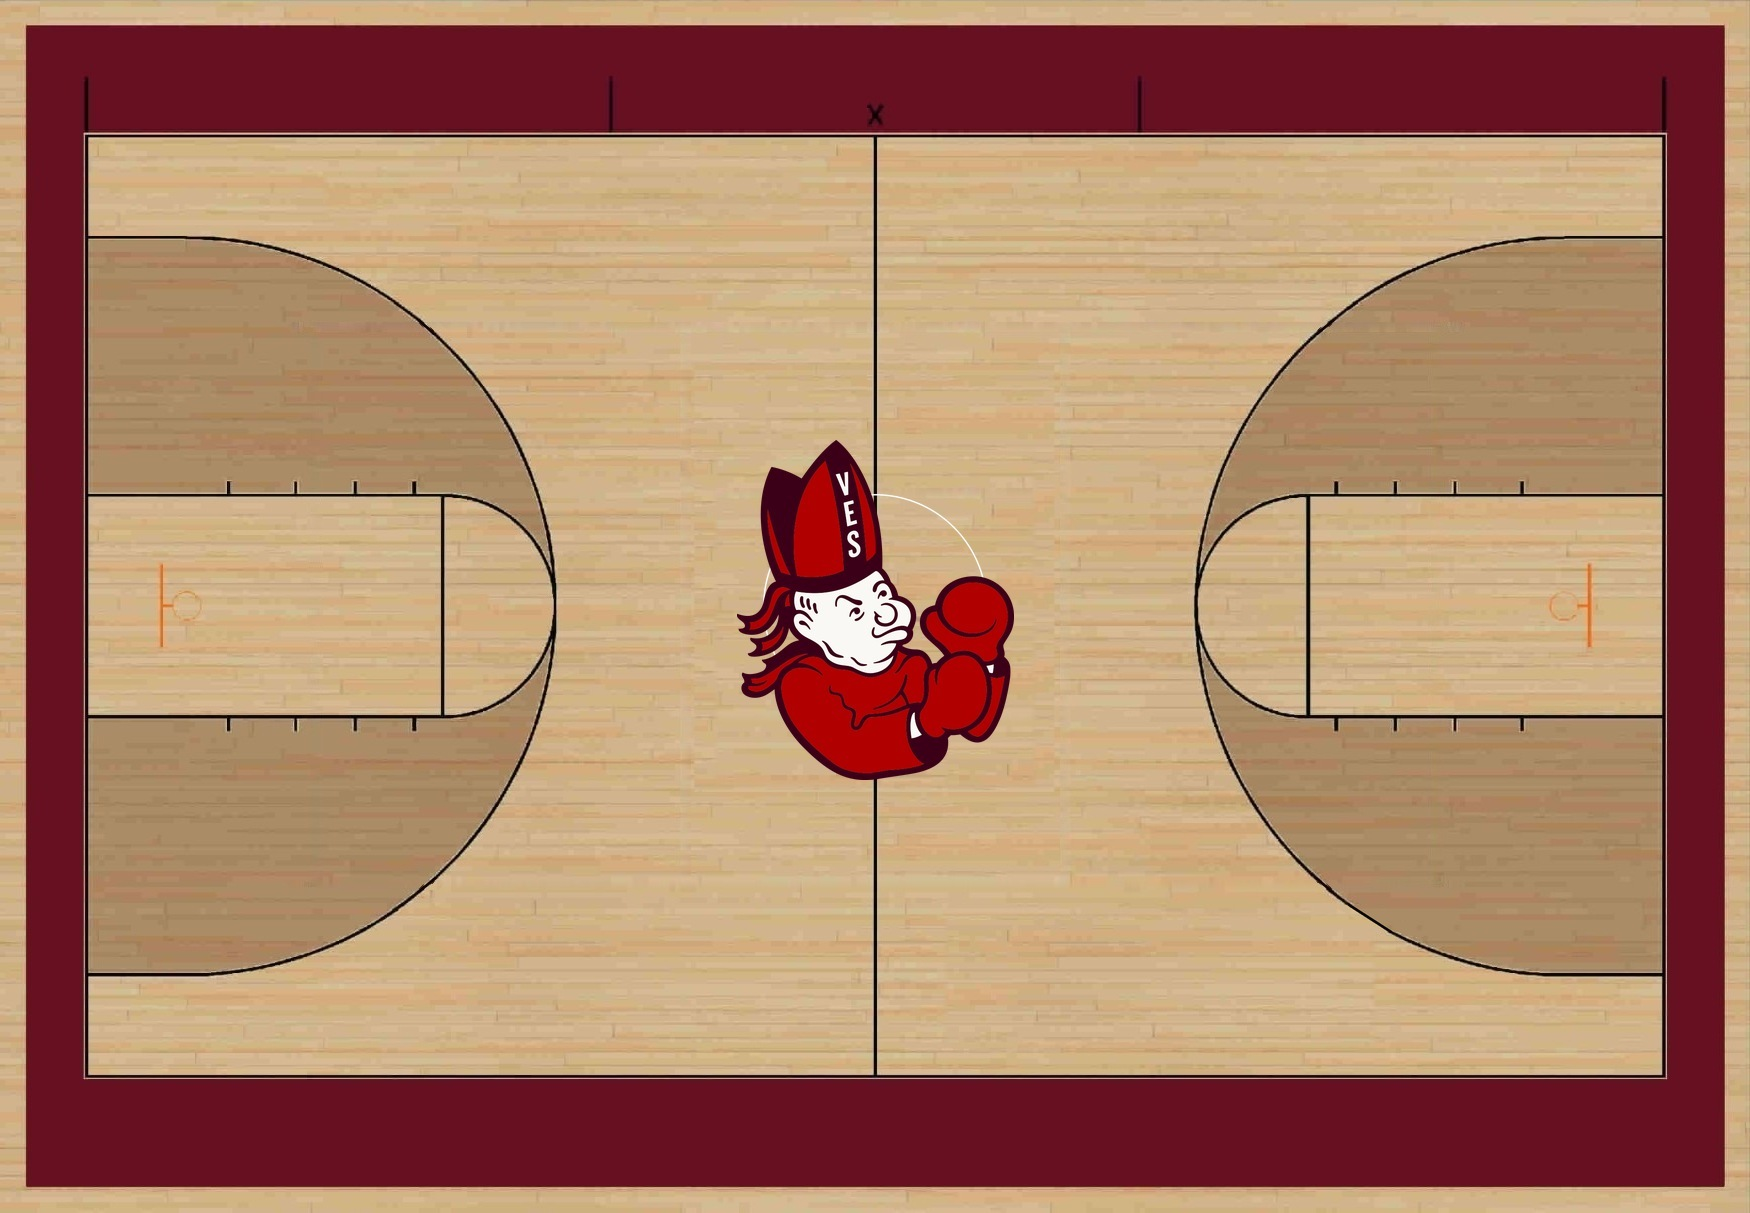
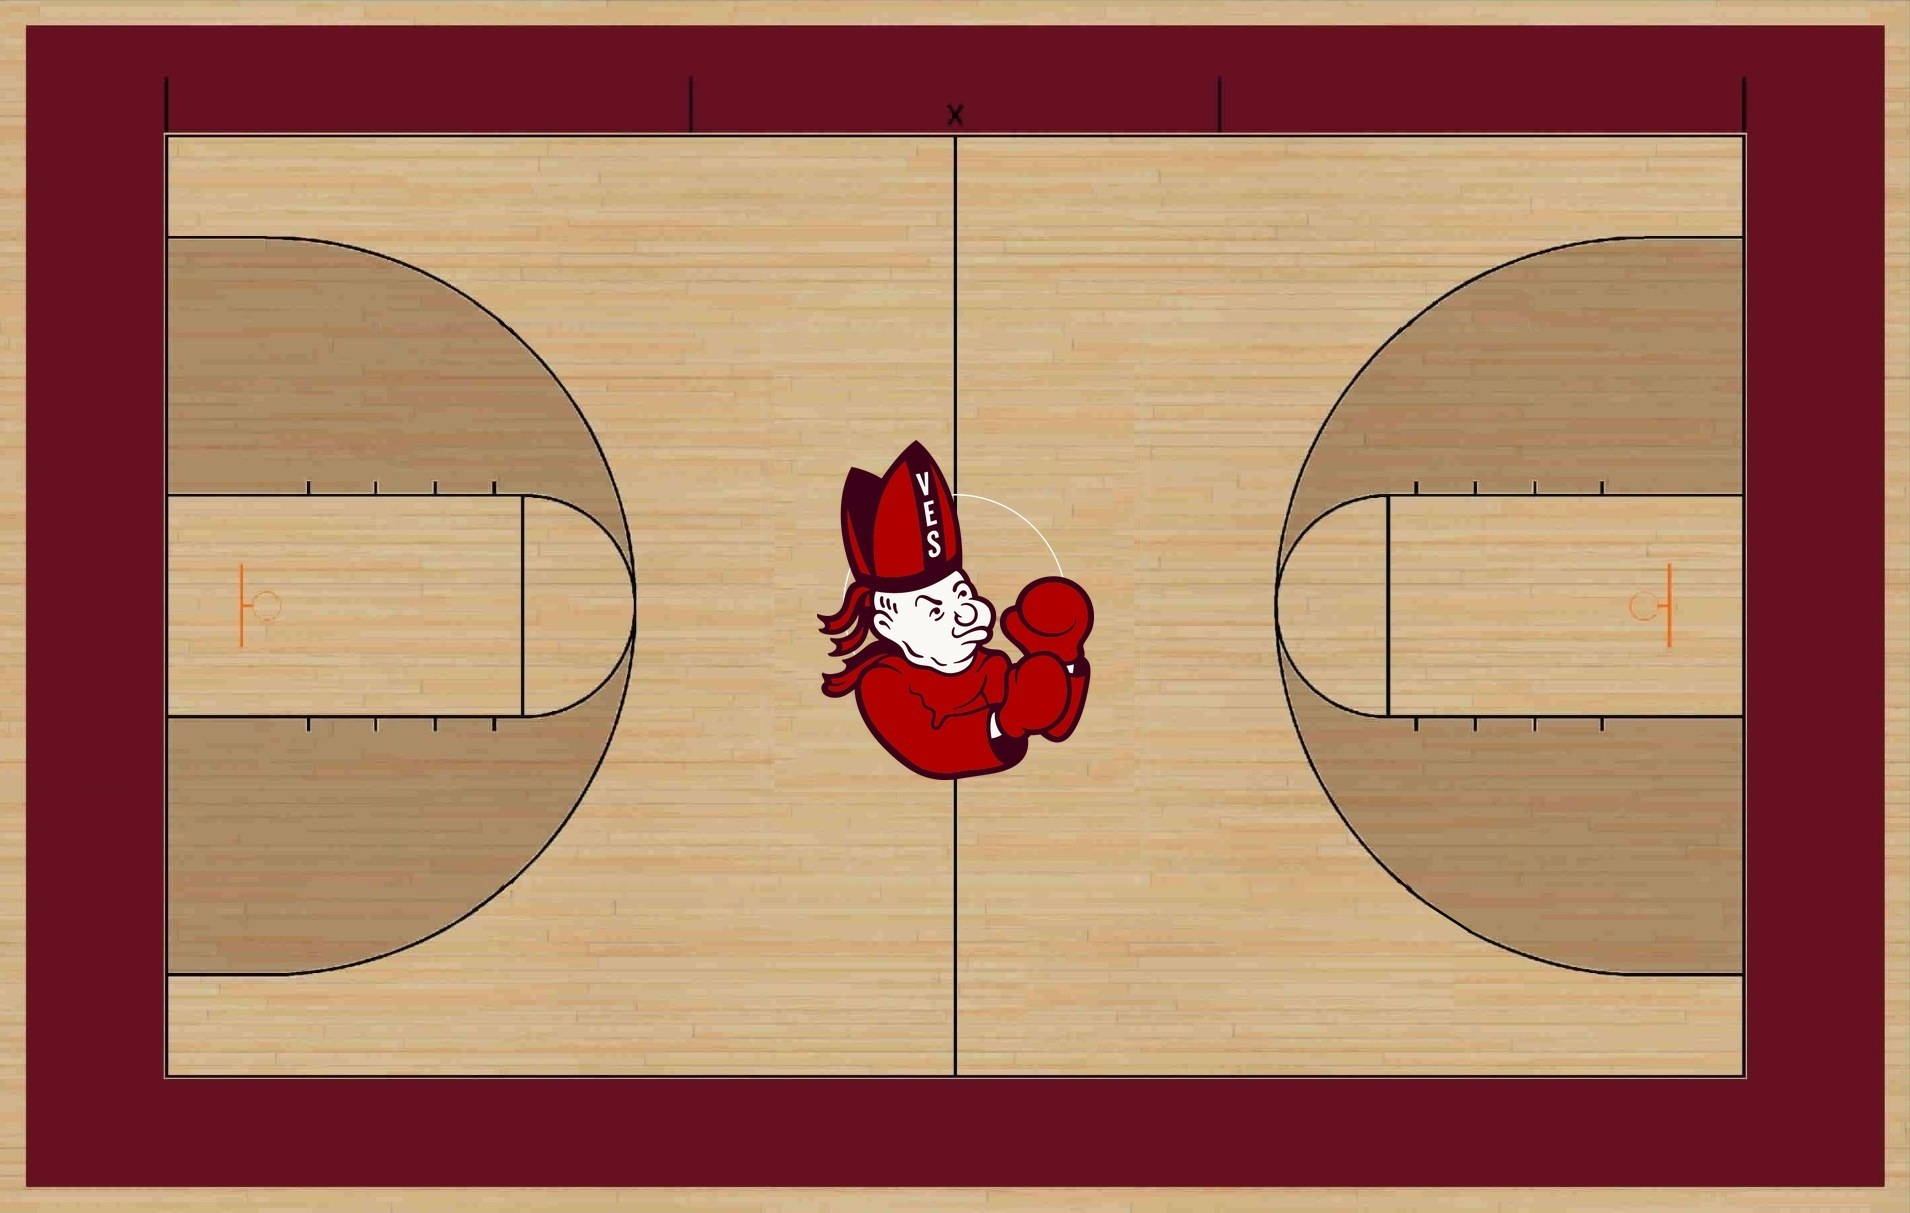
Make the baseline borders slightly wider than the sidelines
Claude-Session: https://claude.ai/code/session_01VBERB8YD5pcwkdtQ5VnhVN

diff --git a/app.js b/app.js
@@ -3,17 +3,19 @@
    Court feet map onto the image with fx()/fy(), so overlays are written in real feet. */
 
 const NS = 'http://www.w3.org/2000/svg';
-const IMG_W = 1750, IMG_H = 1213;
-const DATA_V = 2; // version 1 drawings were made on a court image that was 125 px wider at each end
+const IMG_W = 1910, IMG_H = 1213;
+const DATA_V = 3;
+// Earlier versions used court images with different baseline widths; this is how far to slide their drawings.
+const shiftFor = v => (v === DATA_V ? 0 : v === 2 ? 80 : -45);
 // Where the 84 x 50 ft playing surface sits inside court.jpg.
-const OX = 86, OY = 136, SX = 1577 / 84, SY = 940 / 50;
+const OX = 166, OY = 136, SX = 1577 / 84, SY = 940 / 50;
 const fx = X => OX + X * SX, fy = Y => OY + Y * SY;
 
 const VIEWS = {
   full:  { label: 'Full',       vb: [0, 0, IMG_W, IMG_H],  rot: 0,   tf: '' },
   tall:  { label: 'Full tall',  vb: [0, 0, IMG_H, IMG_W],  rot: 90,  tf: `translate(${IMG_H} 0) rotate(90)` },
-  halfL: { label: 'Left half',  vb: [60, 0, 1093, 935],  rot: 90,  tf: `translate(${IMG_H} 0) rotate(90)` },
-  halfR: { label: 'Right half', vb: [60, 0, 1093, 935],  rot: -90, tf: `translate(0 ${IMG_W}) rotate(-90)` },
+  halfL: { label: 'Left half',  vb: [60, 0, 1093, 1015], rot: 90,  tf: `translate(${IMG_H} 0) rotate(90)` },
+  halfR: { label: 'Right half', vb: [60, 0, 1093, 1015], rot: -90, tf: `translate(0 ${IMG_W}) rotate(-90)` },
 };
 
 const COLORS = ['#111111', '#b20000', '#0b4fd6', '#0a7d3b', '#ffd400', '#ffffff'];
@@ -355,7 +357,7 @@ function cleanPlay(raw) {
   st.id = typeof raw.id === 'string' ? raw.id.slice(0, 40) : null;
   st.name = String(raw.name || '').slice(0, 60);
   st.flip = !!raw.flip;
-  const dx = raw.v === DATA_V ? 0 : -125;
+  const dx = shiftFor(raw.v);
   st.ink = cleanInk(raw.ink, dx);
   st.tokMoved = !!raw.tokMoved;
   for (const id of TOKENS) {
@@ -700,7 +702,7 @@ $('importFile').addEventListener('change', async e => {
     if (!data || data.app !== 'bishops-whiteboard' || !Array.isArray(data.plays)) throw new Error('wrong file');
     const idMap = {};
     for (const o of Array.isArray(data.overlays) ? data.overlays : []) {
-      const items = cleanInk(o && o.items, o && o.v === DATA_V ? 0 : -125);
+      const items = cleanInk(o && o.items, shiftFor(o && o.v));
       if (!items.length) continue;
       const fresh = { v: DATA_V, id: 'c-' + uid(), name: String(o.name || 'Overlay').slice(0, 40), items };
       idMap[o.id] = fresh.id;
@@ -739,7 +741,7 @@ async function start() {
   $('fingerChk').checked = fingerDraw;
   setTool(tool); setColor(color);
   paintAll();
-  try { customOverlays = (await dbAll('overlays')).map(o => ({ v: DATA_V, id: String(o.id), name: String(o.name || 'Overlay').slice(0, 40), items: cleanInk(o.items, o.v === DATA_V ? 0 : -125) })); } catch (e) { customOverlays = []; }
+  try { customOverlays = (await dbAll('overlays')).map(o => ({ v: DATA_V, id: String(o.id), name: String(o.name || 'Overlay').slice(0, 40), items: cleanInk(o.items, shiftFor(o.v)) })); } catch (e) { customOverlays = []; }
   fillOverlays(gOvl, state);
   if (navigator.storage && navigator.storage.persist) navigator.storage.persist().catch(() => {});
   if ('serviceWorker' in navigator) navigator.serviceWorker.register('sw.js').catch(() => {});

diff --git a/sw.js b/sw.js
@@ -1,6 +1,6 @@
 // Offline support: keep a copy of every app file on the iPad, serve from that copy first,
 // and quietly refresh the copy whenever there is a connection.
-const CACHE = 'bishops-whiteboard-v5';
+const CACHE = 'bishops-whiteboard-v6';
 const FILES = ['./', 'index.html', 'style.css', 'app.js', 'court.jpg', 'manifest.webmanifest', 'icon-180.png', 'icon-192.png', 'icon-512.png'];
 
 self.addEventListener('install', e => {

diff --git a/index.html b/index.html
@@ -33,7 +33,7 @@
       </pattern>
     </defs>
     <g id="world">
-      <image href="court.jpg" width="1750" height="1213" preserveAspectRatio="none"/>
+      <image href="court.jpg" width="1910" height="1213" preserveAspectRatio="none"/>
       <g id="ovl"></g>
       <g id="ink"></g>
       <g id="live"></g>
